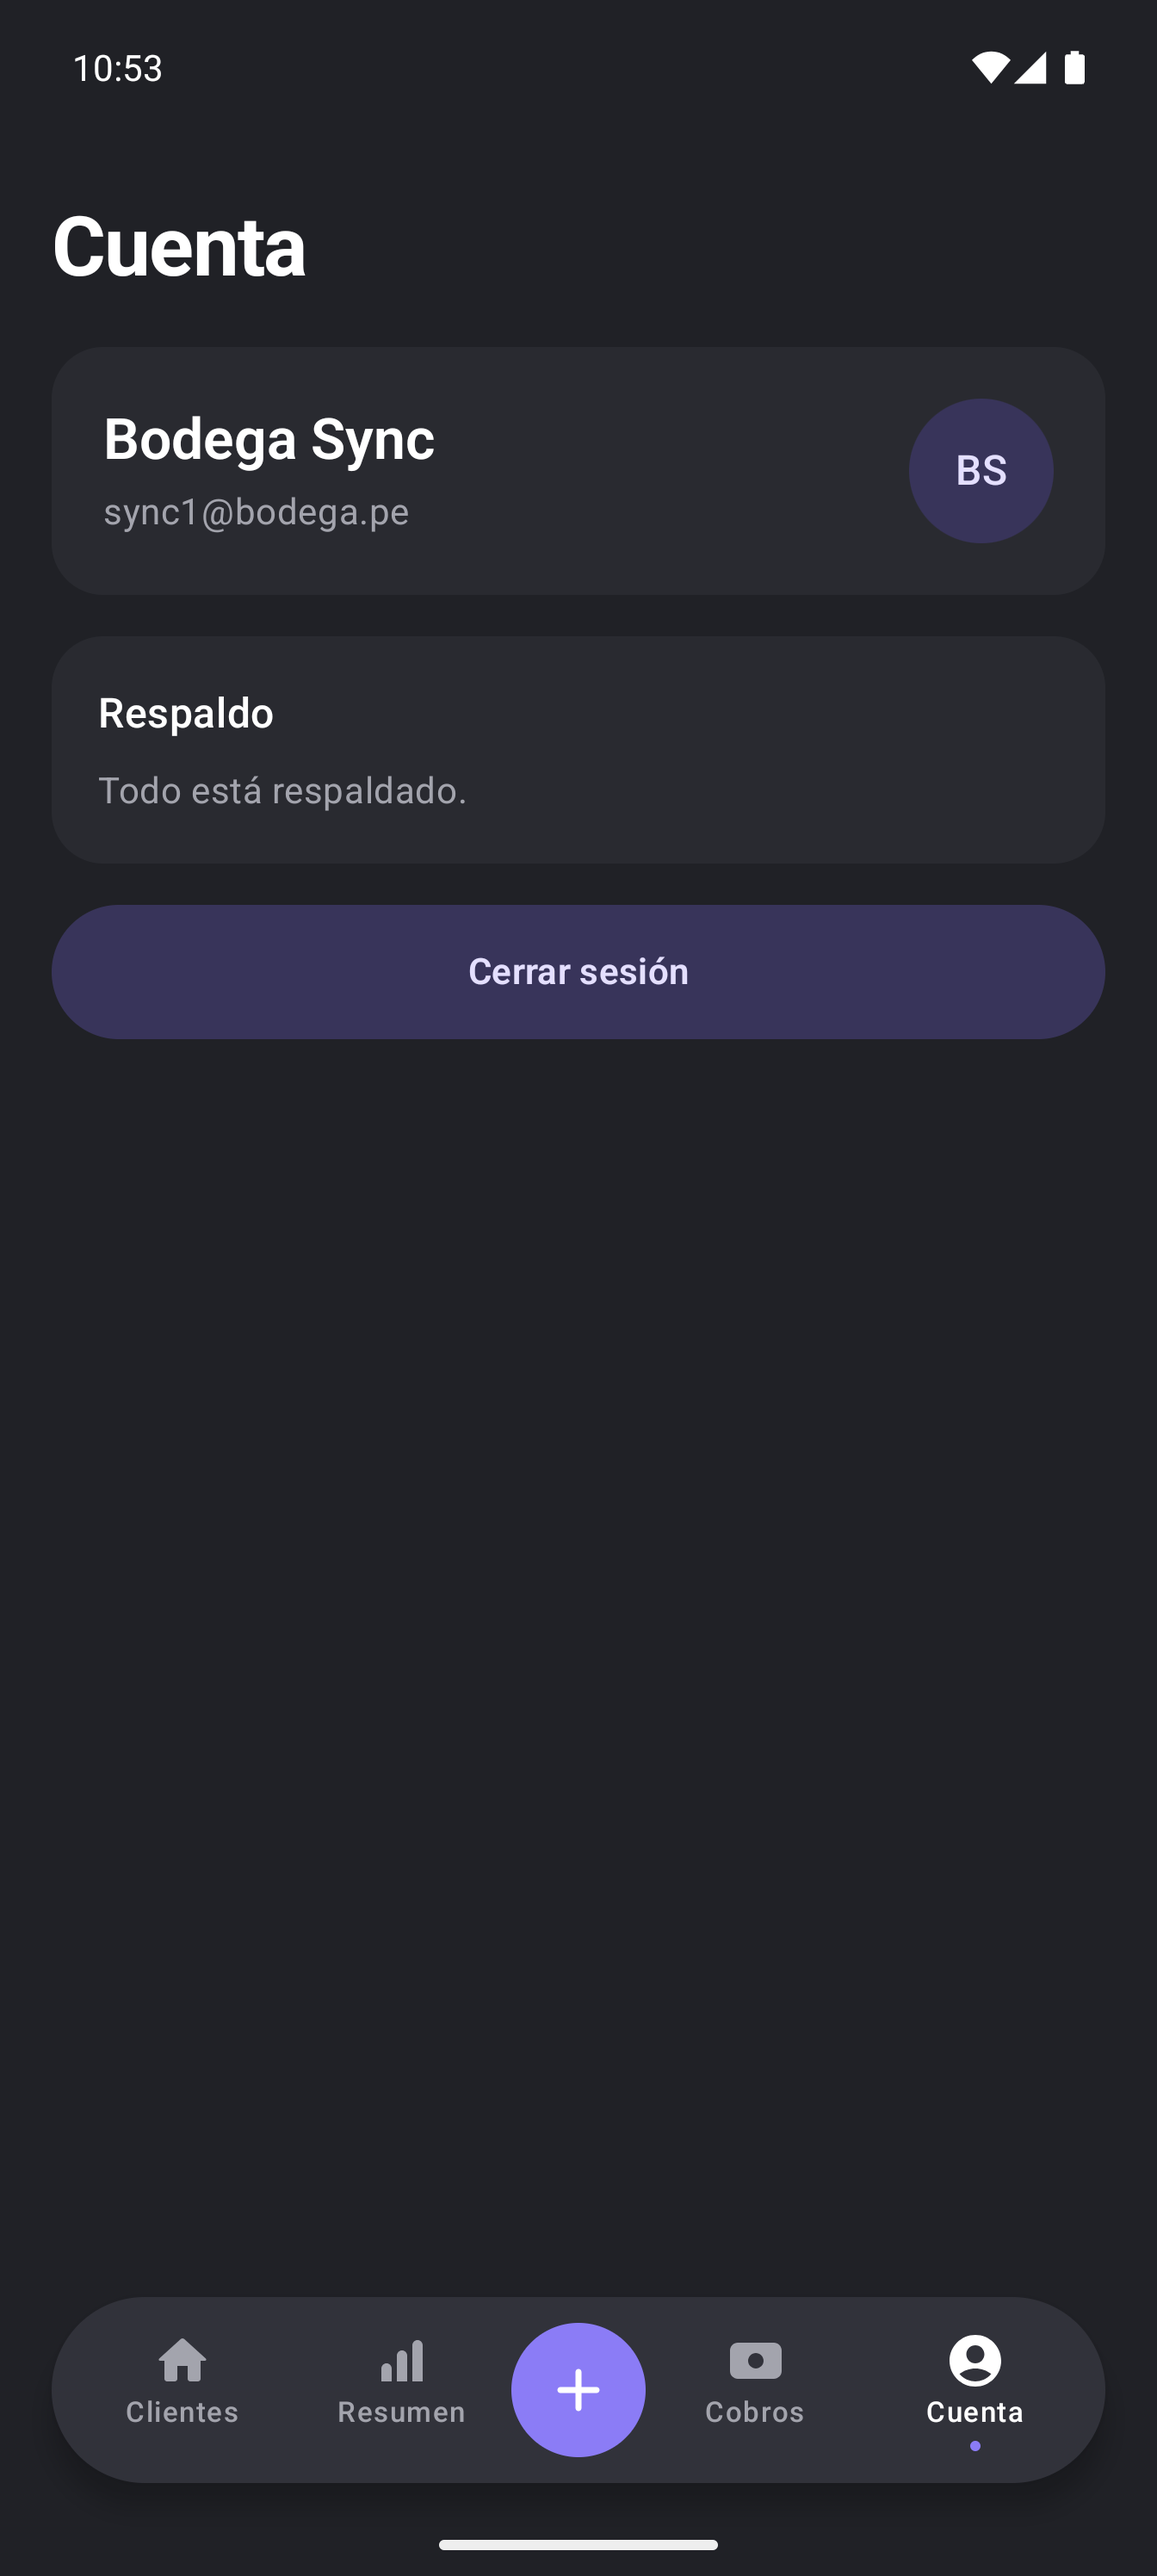
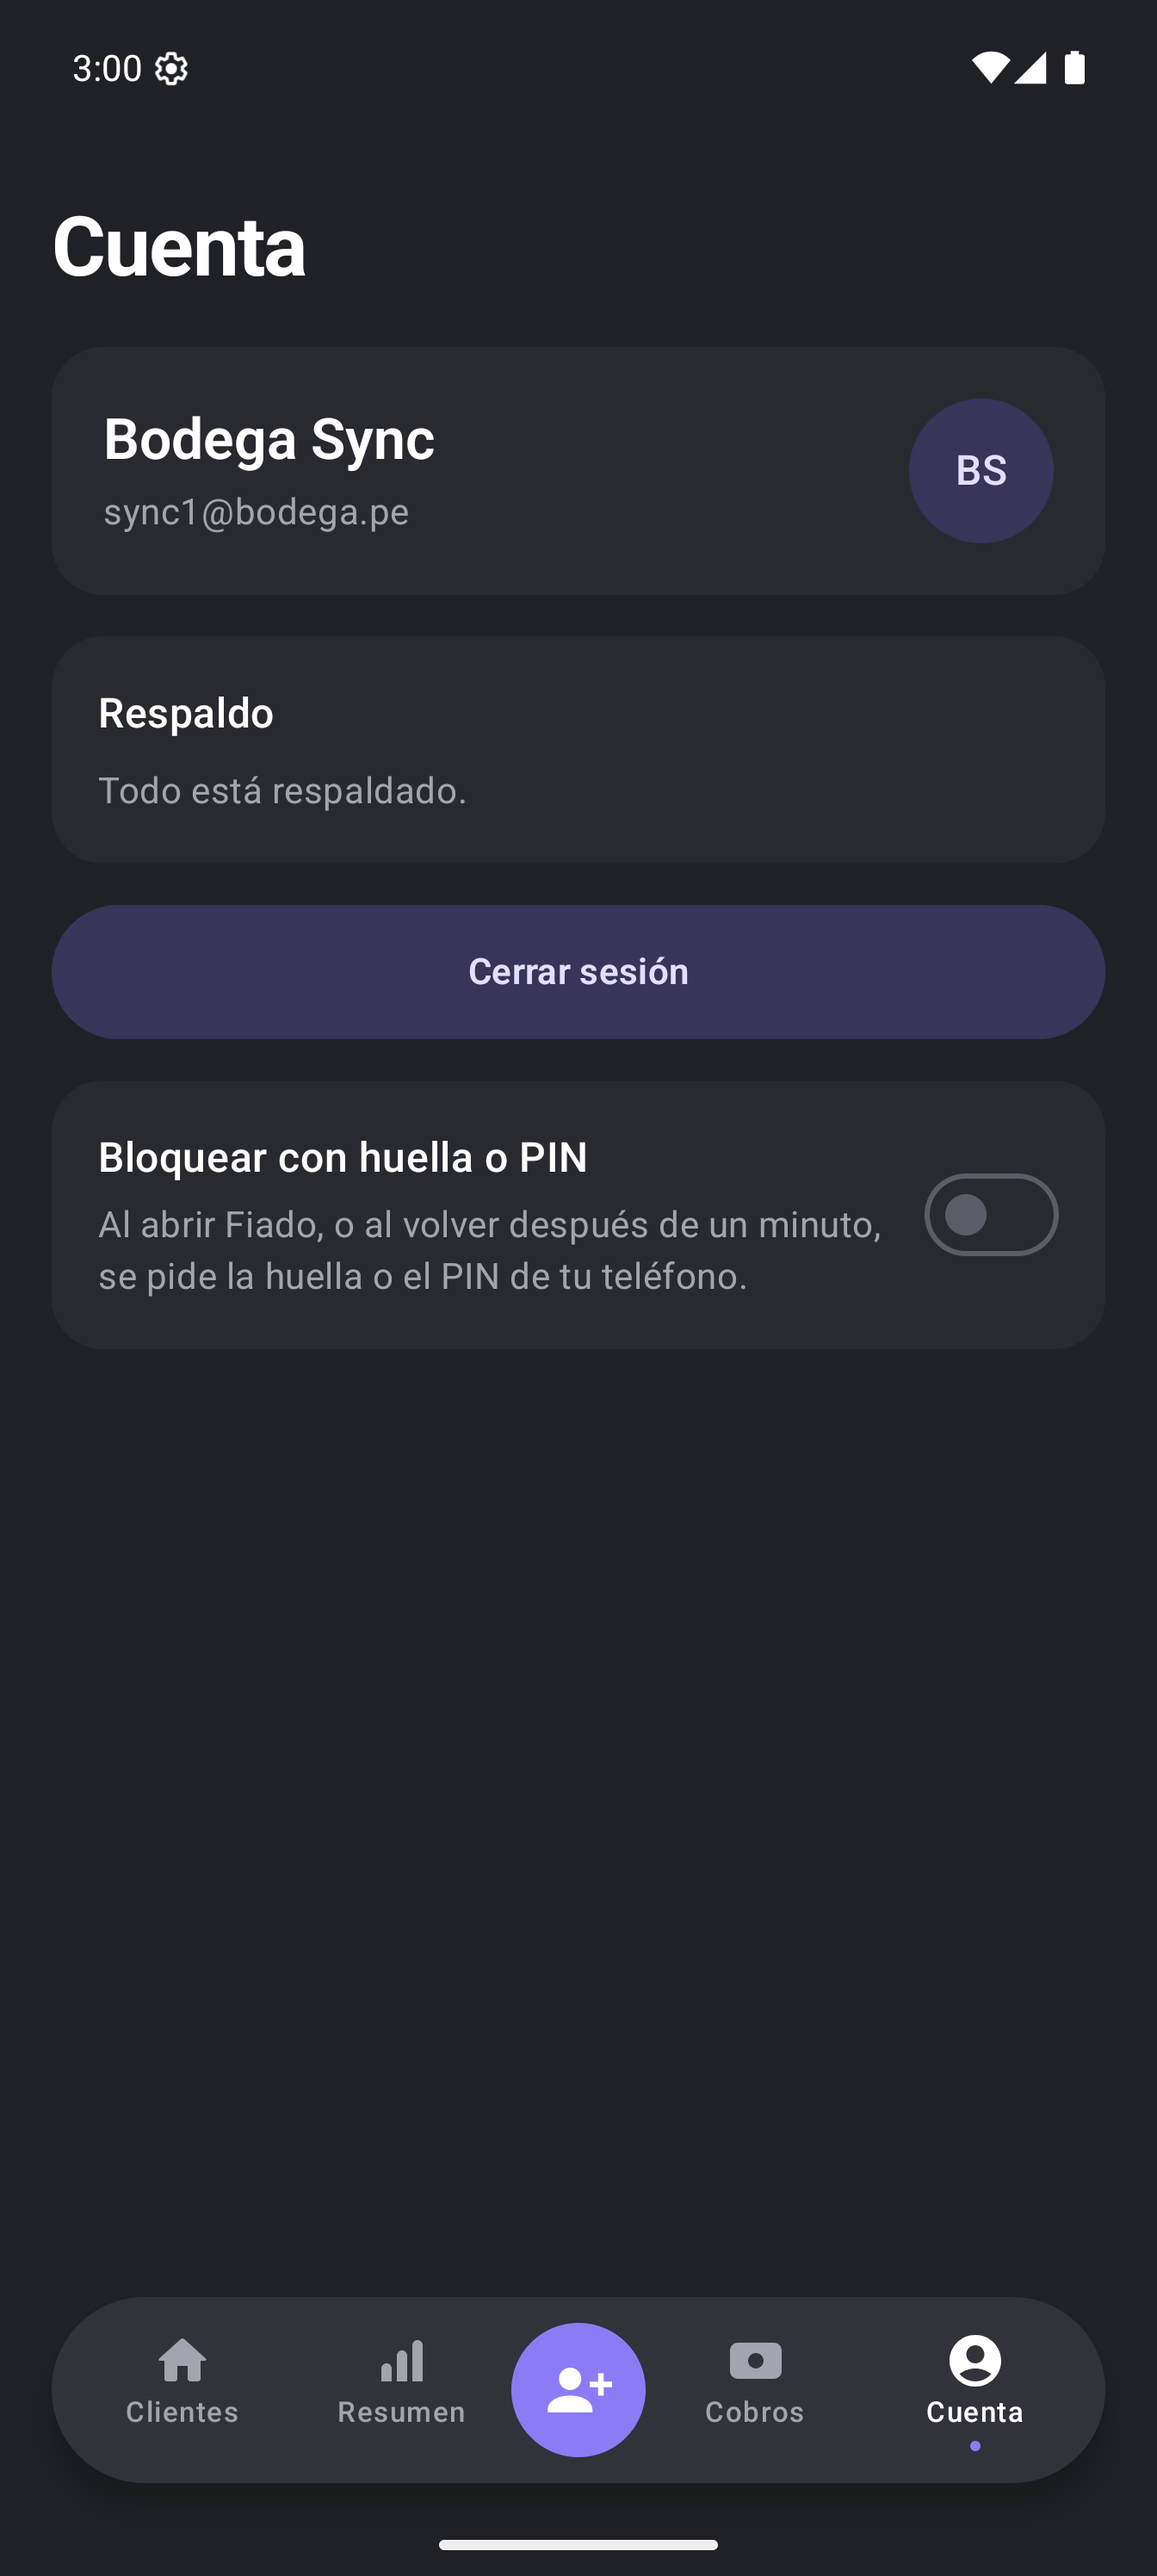
docs: registrar el bloqueo con huella en README y CHANGELOG

diff --git a/README.md b/README.md
@@ -19,7 +19,7 @@ Es una app Android nativa con los datos en el teléfono (Room como fuente de ver
   <img src="docs/capturas/cobros.png" alt="Pantalla Cobros con los métodos y el mensaje de cobro" width="240">
   <img src="docs/capturas/metodos-lista.png" alt="Métodos de cobro propios" width="240">
   <img src="docs/capturas/mensaje-de-cobro.png" alt="Plantilla del mensaje de cobro con su vista previa" width="240">
-  <img src="docs/capturas/cuenta.png" alt="Cuenta con el estado del respaldo" width="240">
+  <img src="docs/capturas/cuenta.png" alt="Cuenta con el estado del respaldo y el bloqueo con huella o PIN" width="240">
   <img src="docs/capturas/cuenta-ceder.png" alt="Aviso al iniciar sesión con la cuenta abierta en otro teléfono" width="240">
 </p>
 
@@ -39,7 +39,7 @@ Es una app Android nativa con los datos en el teléfono (Room como fuente de ver
 | Sincronización: estado del respaldo y avisos al cerrar sesión o ceder el teléfono | Listo |
 | Recordatorio por WhatsApp con un mensaje de cobro editable | Listo |
 | Diseño oscuro con tarjetas y barra inferior flotante | Listo |
-| Bloqueo con huella | Pendiente |
+| Bloqueo opcional con la huella o el PIN del teléfono | Listo |
 
 ## Requisitos
 

diff --git a/CHANGELOG.md b/CHANGELOG.md
@@ -10,6 +10,7 @@ El formato sigue [Keep a Changelog](https://keepachangelog.com/es-ES/1.1.0/) y e
 
 - Recordatorio de cobro por WhatsApp desde el historial de un cliente que debe: abre WhatsApp con el mensaje escrito. Si el cliente no tiene celular, ofrece agregarlo.
 - Mensaje de cobro editable desde el menú, con `{cliente}`, `{saldo}` y `{negocio}`, vista previa y opción de restablecer. Por defecto saluda con el nombre del negocio; sin cuenta, esa frase se omite. Se guarda solo en el teléfono.
+- ADR-0006 y bloqueo opcional con la huella o el PIN del teléfono, desde Cuenta: se pide al abrir la app y al volver tras un minuto o más en segundo plano. Activarlo o apagarlo pide confirmar con la huella. Mientras está activo, la vista de apps recientes no muestra saldos. Si el teléfono quita su bloqueo de pantalla, el de la app se apaga solo y avisa.
 - Barra inferior flotante con Clientes, Resumen, Cobros y Cuenta, y un botón central para crear un cliente. La pantalla Cobros reúne los métodos de cobro y el mensaje de cobro.
 - Resumen con un anillo del porcentaje cobrado de lo fiado en el mes y barras con lo cobrado por cada método.
 
